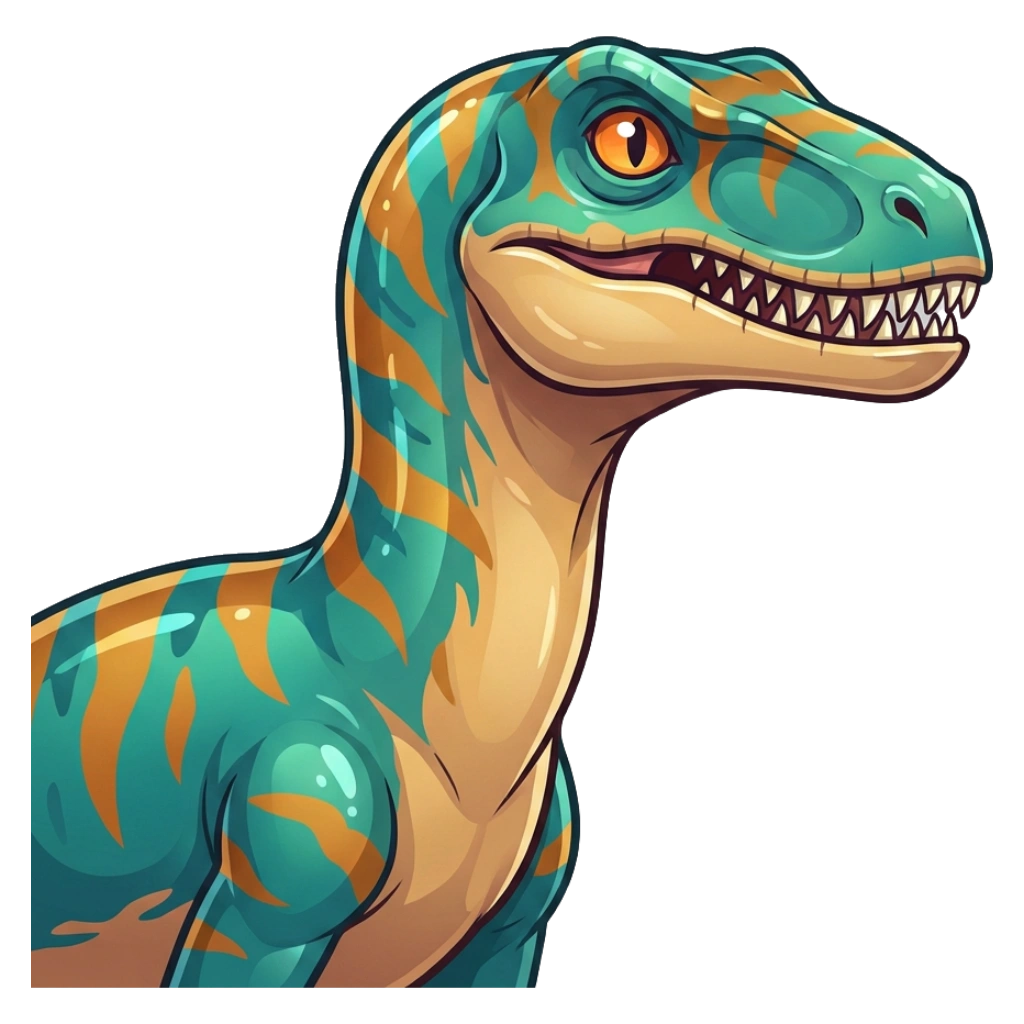
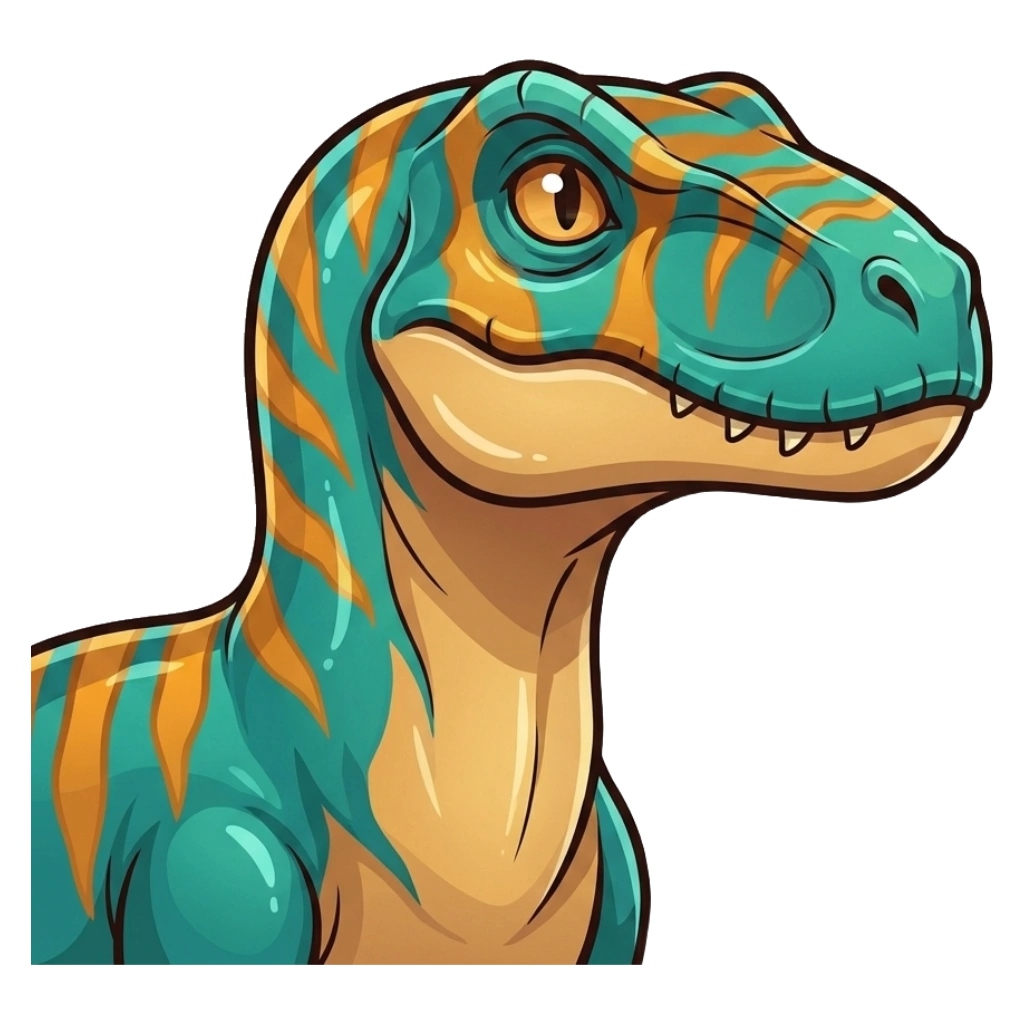
assets: regenerate bruiser-carnivore and swift-carnivore with mouth closed
bruiser-carnivore read as fierce as the boss portraits (open jaw, full
tooth row, dense scale texture) despite covering six species including
tyrannosaurus, which has its own separate boss portrait. swift-carnivore
had the same open-mouth issue to a lesser degree, and also covers two
boss species (baryonyx, quetzalcoatlus). Both regenerated with the mouth
closed and scale texture flattened to match tank-carnivore and
bruiser-herbivore's register; prompts.md updated to match.

diff --git a/docs/assets/prompts.md b/docs/assets/prompts.md
@@ -661,8 +661,9 @@ Egg rarities so it is a choice, not a third undocumented margin.
 `{DINO}` per file:
 
 - **`bruiser-carnivore.webp`:** a heavy-set cartoon theropod predator with a
-  powerful gaping jaw full of sharp teeth, a thick muscular neck, short sturdy
-  forelimbs, and crimson-and-charcoal scales.
+  sturdy thick-boned head, a thick muscular neck, short sturdy forelimbs, a
+  closed jaw with teeth mostly hidden, smooth low-texture scales, and
+  crimson-and-charcoal coloring.
 - **`bruiser-herbivore.webp`:** a stocky cartoon plant-eating dinosaur with a
   sturdy thick-boned head, broad shoulders, a blunt beaked snout, a heavy jaw,
   and olive-green scales with a sandy underside.
@@ -673,8 +674,8 @@ Egg rarities so it is a choice, not a third undocumented margin.
   with a sturdy blunt-featured head, tough thick hide, powerful shoulders,
   small watchful eyes, and earthy brown and moss-green coloring.
 - **`swift-carnivore.webp`:** a lean, fast-built cartoon carnivore with an
-  alert forward-set eye, a sharp predatory bite, a slender agile build, and
-  teal-and-amber striped scales.
+  alert forward-set eye, a closed jaw with teeth mostly hidden, a slender
+  agile build, and teal-and-amber striped scales.
 - **`swift-herbivore.webp`:** a slender, quick-footed cartoon herbivore with a
   small beaked head, a large alert eye, a light nimble build, and pale tan
   plumage with a warm cream underside.
